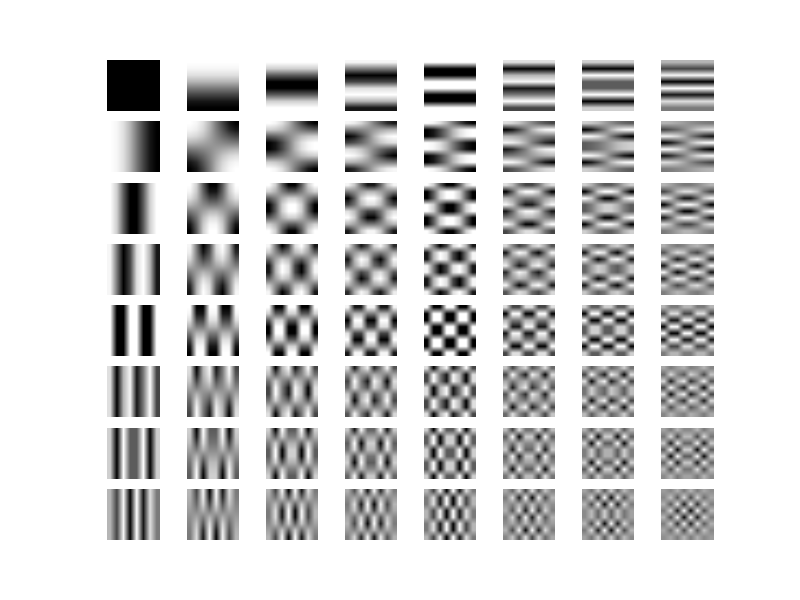
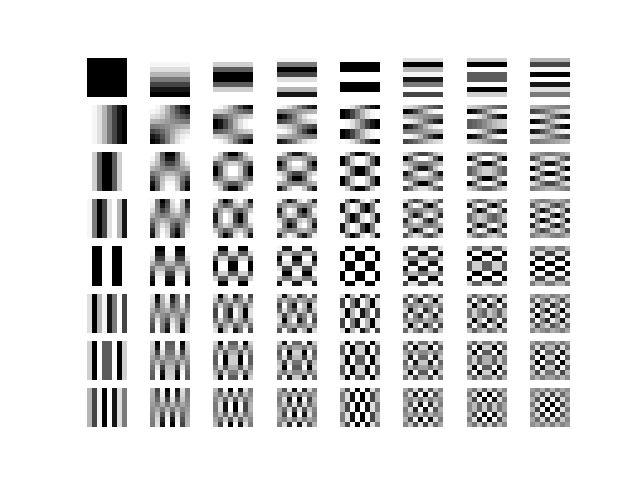
Simplified by removing x,y normalisation. Added input arguments. New method to call for the basis image.

diff --git a/dct.py b/dct.py
@@ -15,60 +15,59 @@ I've left this unoptimised for clarity.
 Resources:
 Image and video processing: From Mars to Hollywood with a stop at the hospital,
 lecture 10. By Guillermo Sapiro from Duke University
+https://www.youtube.com/watch?v=pZuaOjfsv0Y&list=PLZ9qNFMHZ-A79y1StvUUqgyL-O0fZh2rs&index=10
+https://www.youtube.com/watch?v=_bltj_7Ne2c&list=PLZ9qNFMHZ-A79y1StvUUqgyL-O0fZh2rs&index=11
 '''
 
+import sys
 from math import cos,sqrt,pi
 import numpy as n_
 import pylab as p_
 import matplotlib.cm as cm
 
-def dct(x, y, v, u, n):
+def dct(x, y, u, v, n):
     # Normalisation
     def alpha(a):
         if a==0:
             return sqrt(1.0/n)
         else:
             return sqrt(2.0/n)
-    
-    return alpha(u)*alpha(v)*cos(((2*x+1)*(u*pi))/(2*n))*cos(((2*y+1)*(v*pi))/(2*n))
-    
-if __name__ == '__main__':
-    print "Running DCT"
-    n = 8 # Assume square image, so we don't have different xres and yres
-    
-    # We can get different frequencies by setting u and v
-    # Here, we have a max u and v to loop over and display
-    # Feel free to adjust
-    maxV = n
-    maxU = n
-    
-    imageSet = []
-    for u in range(0, maxU):
-        for v in range(0, maxV):
-            basisImg = n_.zeros((n,n))
-            for y in range(0, n):
-                for x in range(0, n):    
-                    basisImg[y,x] = dct(x, y, v, u, max(n, maxV))
-            imageSet.append(basisImg)
-    
-    '''
-    # Instead of looping, we can choose one basis(u,v)
-    v = 0
-    u = 0
+    return alpha(u) * alpha(v) * cos(((2*x+1)*(u*pi))/(2*n)) * cos(((2*y+1)*(v*pi))/(2*n))
+
+def getBasisImage(u, v, n):
+    # for a given (u,v), make a DCT basis image
     basisImg = n_.zeros((n,n))
     for y in range(0, n):
-        for x in range(0, n):    
-            basisImg[y,x] = dct(x, y, v, u, n)
-    '''
-    
-    displayRows = maxV
-    displayCols = maxU
+        for x in range(0, n):
+            basisImg[y,x] = dct(x, y, u, v, n)
+    return basisImg
+
+if __name__ == '__main__':
+    print("Running DCT")
+
+    # n (int): assume square image, so we don't have different xres and yres
+    try:
+        n = int(sys.argv[1])
+    except:
+        n = 8
+    print("n: %d" % n)
+
+    # We can get different frequencies by setting u and v
+    print("Generating DCT basis images")
+    imageSet = []
+    for u in range(0, n):
+        for v in range(0, n):
+            basisImg = getBasisImage(u, v, n)
+            imageSet.append(basisImg)
+
+    print("Saving figure...")
     p_.figure("DCT")
     for i in range(0, len(imageSet)):
-        p_.subplot(displayRows, displayCols, i+1)
+        p_.subplot(n, n, i+1)
         p_.axis('off')
         p_.imshow(imageSet[i],cmap = cm.Greys_r)
-    p_.savefig('_dct_'+str(n)+'x'+str(n)+'_'+str(maxU)+'x'+str(maxV)+'.png')
+    p_.savefig('_dct_'+str(n)+'x'+str(n)+'_'+str(n)+'x'+str(n)+'.png')
     p_.show()
-    print "Complete" 
+
+    print("Complete" )
     
